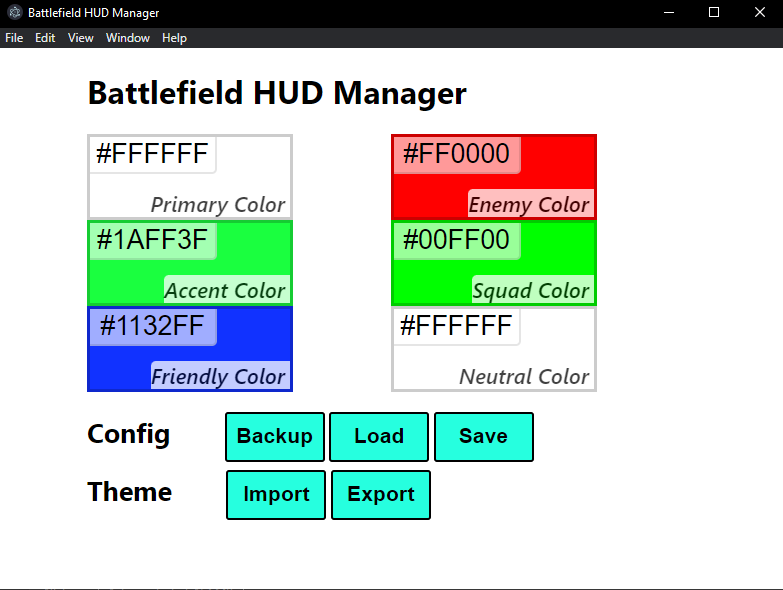
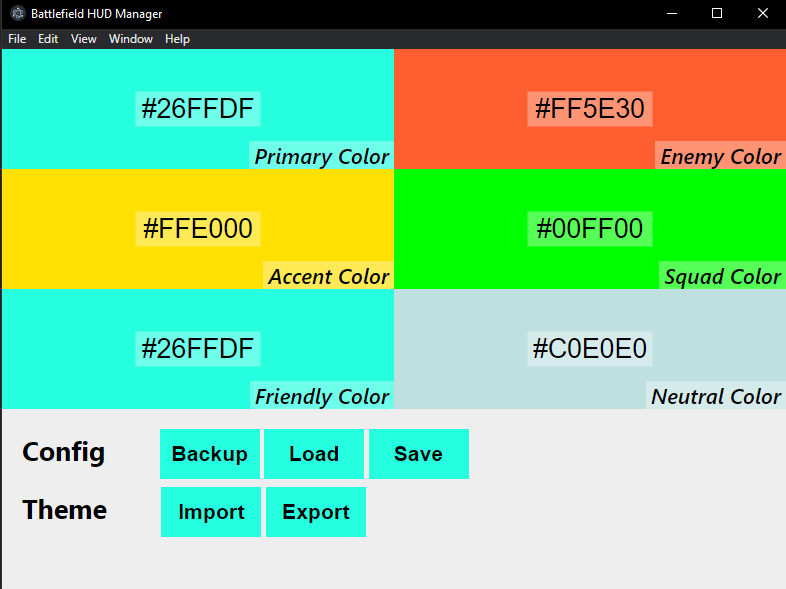
Final UI change

diff --git a/src/index.css b/src/index.css
@@ -10,20 +10,20 @@
 
 input[type=text] {
   padding: 0;
-  margin: 0;
+  left: 50%;
+  top: 50%;
+  -webkit-transform: translate(-50%, -50%);
+  transform: translate(-50%, -50%);
   width: 125px;
   height: 35px;
   border-color: rgba(0, 0, 0, 0.1);
-  background-color: #FFFFFF99;
-  border-radius: 0px 0px 5px 0px;
-  float: left;
   text-align: center;
   font-weight: 500;
   font-size: 20pt;
   position: relative;
   z-index: 9999;
-  border-left: none;
-  border-top: none;
+  border-style: none;
+  background-color: #FFFFFF55;
 }
 
 .warning {
@@ -34,8 +34,9 @@ input[type=text] {
 body {
   font-family: -apple-system, BlinkMacSystemFont, 'Segoe UI', Roboto, Helvetica,
     Arial, sans-serif;
-  margin: auto;
-  max-width: 38rem;
+  margin: 0;
+  background-color: #EEE;
+
 }
 
 .button {
@@ -43,13 +44,10 @@ body {
   font-weight: bolder;
   width: 100px;
   height: 50px;
-  border-style: none;
-  border-radius: 3px;
   cursor: pointer;
   background-color: ghostwhite;
   color: black;
-  border-style: solid;
-  border-color: black;
+  border-style: none;
 }
 
 .button:disabled {
@@ -75,12 +73,9 @@ body {
 }
 
 .color-box {
-  width: 200px;
-  height: 80px;
+  width: 100%;
+  height: 120px;
   background-color: #FFF;
-  border-width: 3px;
-  border-style: solid;
-  border-color: #00000033;
   position: relative;
 }
 
@@ -92,11 +87,10 @@ body {
   font-size: 16pt;
   font-weight: 500;
   color: black;
-  background-color: #FFFFFF;
+  background-color: #FFFFFF55;
   margin: 0;
   padding-right: 5px;
-  opacity: 75%;
-  border-radius: 5px 0px 0px 0px;
+  padding-left: 5px;
 }
 
 .header {
@@ -107,6 +101,7 @@ body {
 
 .button-elements {
   margin-top: 20px;
+  margin-left: 20px;
 }
 
 .theme-container {

diff --git a/src/index.html b/src/index.html
@@ -11,7 +11,6 @@
 </head>
 
 <body>
-  <h1>Battlefield HUD Manager</h1>
   <div class="row">
 
     <div class="container">
